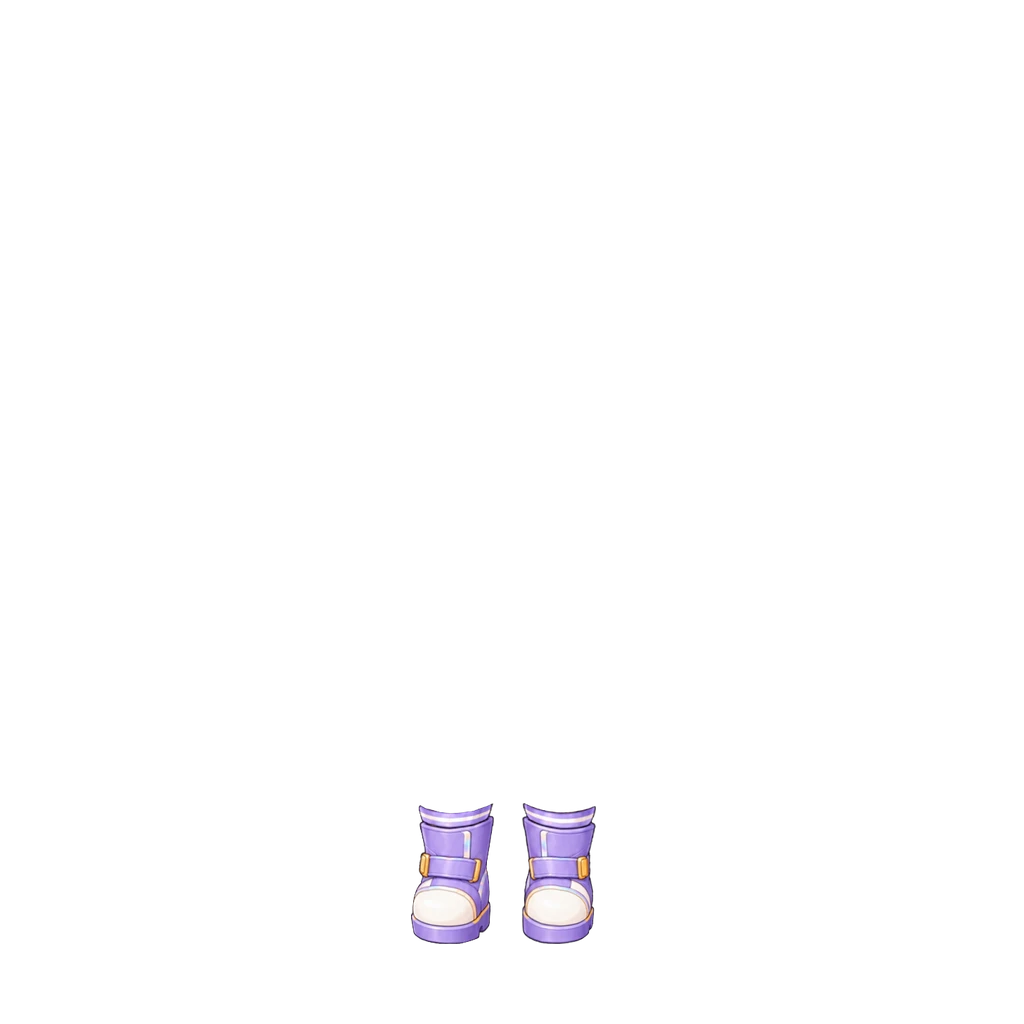
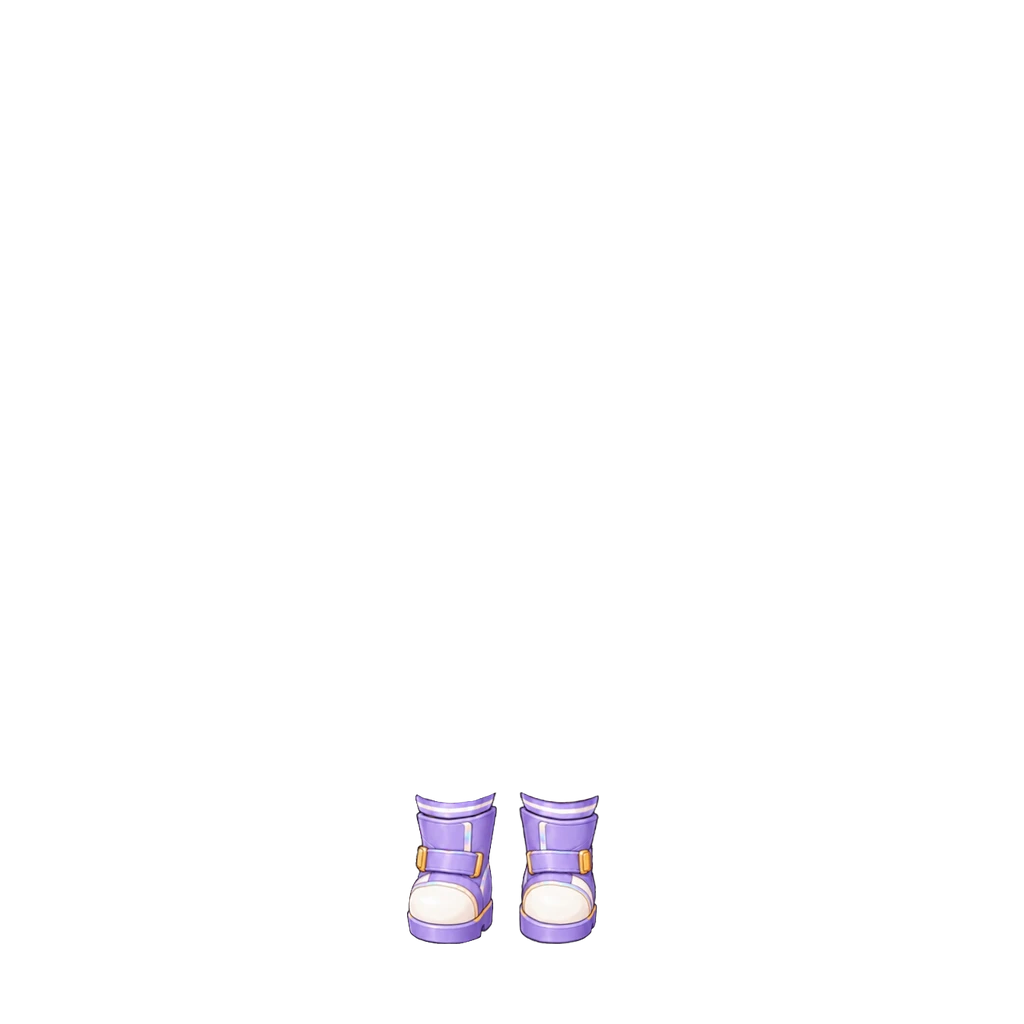
보라 우주 부츠(여아) 8% 크게 (#815)
밑창·부츠목 가운데를 고정한 채 두 짝 배율 0.71→0.7668. img ?v=2.

Claude-Session: https://claude.ai/code/session_018maNuYqDfFyRSe9uKpZhPR

Changed region(s): [[0.4062, 0.7812, 0.5938, 0.9062], [0.375, 0.875, 0.4062, 0.9062]]

diff --git a/src/data/avatarEquipment.js b/src/data/avatarEquipment.js
@@ -420,8 +420,9 @@ export const AVATAR_CATALOG = [
      들꽃 신발과 같은 방식 — 두 짝을 따로 잘라 원화 부츠목 가운데(왼짝 x62.5 · 오른짝 x52)를 다리 가운데(x455 · x556)에,
      배율 0.71, 밑창 아래끝 y944, 오른짝 +3(보라 부츠·꼬마해적 신발과 같은 크기). 맨발 0px. 탑재 상자 (411,803,596,944).
      [2026-10-03 사용자 확정] 우주 부츠는 옷 위로 보여야 한다 — z37 로 상의(z35) 위·목 장식(z40) 아래에 그린다.
-     그래서 우주복을 입으면 부츠목이 바지 끝(y887)을 덮는다. */
-  { id: "shoes_space_girl", slot: "shoes", label: "보라 우주 부츠", emoji: "🥾", price:DECOR_PRICE.common, rarity: "common", theme: "space", forGender: "girl", z: 37, img: "assets/avatar/shoes/space-boots-girl.webp", thumb: "assets/avatar/thumb/shoes_space_girl.webp" },
+     그래서 우주복을 입으면 부츠목이 바지 끝(y887)을 덮는다.
+     [2026-10-03] 사용자 조정 — 두 짝 8% 크게(배율 0.7668, 밑창·부츠목 가운데 고정). 탑재 상자 (407,792,599,944). img ?v=2. */
+  { id: "shoes_space_girl", slot: "shoes", label: "보라 우주 부츠", emoji: "🥾", price:DECOR_PRICE.common, rarity: "common", theme: "space", forGender: "girl", z: 37, img: "assets/avatar/shoes/space-boots-girl.webp?v=2", thumb: "assets/avatar/thumb/shoes_space_girl.webp" },
 
 ];
 

diff --git a/art-src/README.md b/art-src/README.md
@@ -580,4 +580,4 @@ bbox로 여백만 잘라내고 배포본은 높이 480px로 축소했다(전부 
 | rain-boots-girl-src.webp | **노랑 장화 원화 여아 (사용자 원화 2026-10-03)** — 261×197 투명 배경, 노란 장화(청록 테두리·구름 무늬) 두 짝. 두 짝(x0~109 · x155~260)을 따로 잘라 배율 0.66, 장화목 가운데를 여아 다리 가운데(x455·x556)에, 밑창 아래끝 y944. 맨발 0px. 탑재 상자 (416,814,592,944). **[2026-10-03 조정]** 두 짝 4% 크게(0.6864), 상자 (414,809,593,944) · img ?v=2. 화면 오른쪽 짝만 오른쪽으로 3, 상자 (414,809,596,944) · img ?v=3. 상점 그림은 원화를 세로 160px 로 | avatar/shoes/rain-boots-girl.webp · thumb/shoes_rain.webp |
 | pink-shoes-girl-src.webp | **핑크 구두 원화 여아 (사용자 원화 2026-10-03)** — 264×166 투명 배경, 분홍 메리제인 + 흰 프릴 양말 두 짝. 두 짝(x0~105 · x158~262)을 따로 잘라 배율 0.69, 양말 가운데를 여아 다리 가운데(x455·x556)에 두고 오른짝 +3, 밑창 아래끝 y944. 맨발 0px. 탑재 상자 (413,829,597,944). 상점 그림은 원화를 세로 160px 로 | avatar/shoes/pink-shoes-girl.webp · thumb/shoes_pink.webp |
 | purple-boots-girl-src.webp | **보라 부츠 원화 여아 (사용자 원화 2026-10-03)** — 262×228 **흰 불투명 배경**(알파 없음) → 테두리에서 이어진 흰 영역만 지우고 경계는 흰 정도로 부드럽게(프릴 양말은 외곽선 안쪽이라 보존). 보라 끈 부츠 + 흰 프릴 양말 두 짝(x0~114 · x153~261)을 따로 잘라 배율 0.71, 부츠목 가운데를 여아 다리 가운데(x455·x556)에 두고 오른짝 +3, 밑창 아래끝 y944. 맨발 0px. 탑재 상자 (414,782,597,944). 상점 그림은 배경 지운 원화를 세로 160px 로 | avatar/shoes/purple-boots-girl.webp · thumb/shoes_purple.webp |
-| space-boots-girl-src.webp | **보라 우주 부츠 원화 여아 (사용자 원화 2026-10-03)** — 268×198 투명 배경, 보라 우주 부츠(흰 앞코·금 버클) 두 짝. 두 짝(x0~116 · x164~267)을 따로 잘라 배율 0.71, 부츠목 가운데를 여아 다리 가운데(x455·x556)에 두고 오른짝 +3, 밑창 아래끝 y944. 맨발 0px. 탑재 상자 (411,803,596,944). 옷 위로 그린다(아이템 z37). 상점 그림은 원화를 세로 160px 로 | avatar/shoes/space-boots-girl.webp · thumb/shoes_space_girl.webp |
+| space-boots-girl-src.webp | **보라 우주 부츠 원화 여아 (사용자 원화 2026-10-03)** — 268×198 투명 배경, 보라 우주 부츠(흰 앞코·금 버클) 두 짝. 두 짝(x0~116 · x164~267)을 따로 잘라 배율 0.71, 부츠목 가운데를 여아 다리 가운데(x455·x556)에 두고 오른짝 +3, 밑창 아래끝 y944. 맨발 0px. 탑재 상자 (411,803,596,944). 옷 위로 그린다(아이템 z37). **[2026-10-03 조정]** 두 짝 8% 크게(0.7668), 상자 (407,792,599,944) · img ?v=2. 상점 그림은 원화를 세로 160px 로 | avatar/shoes/space-boots-girl.webp · thumb/shoes_space_girl.webp |
